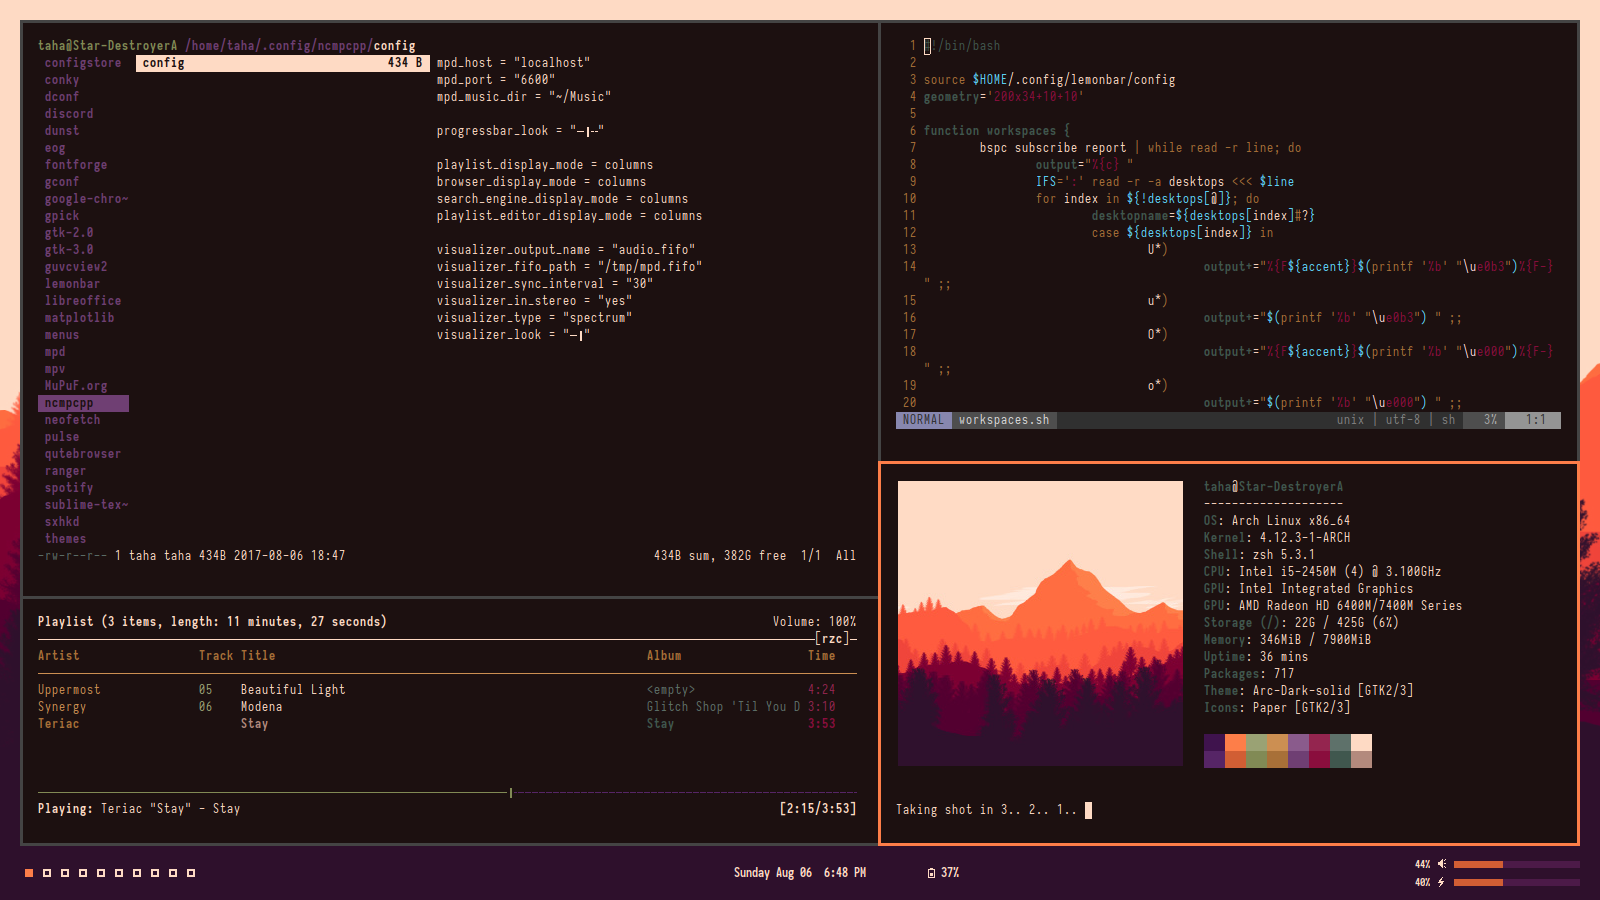
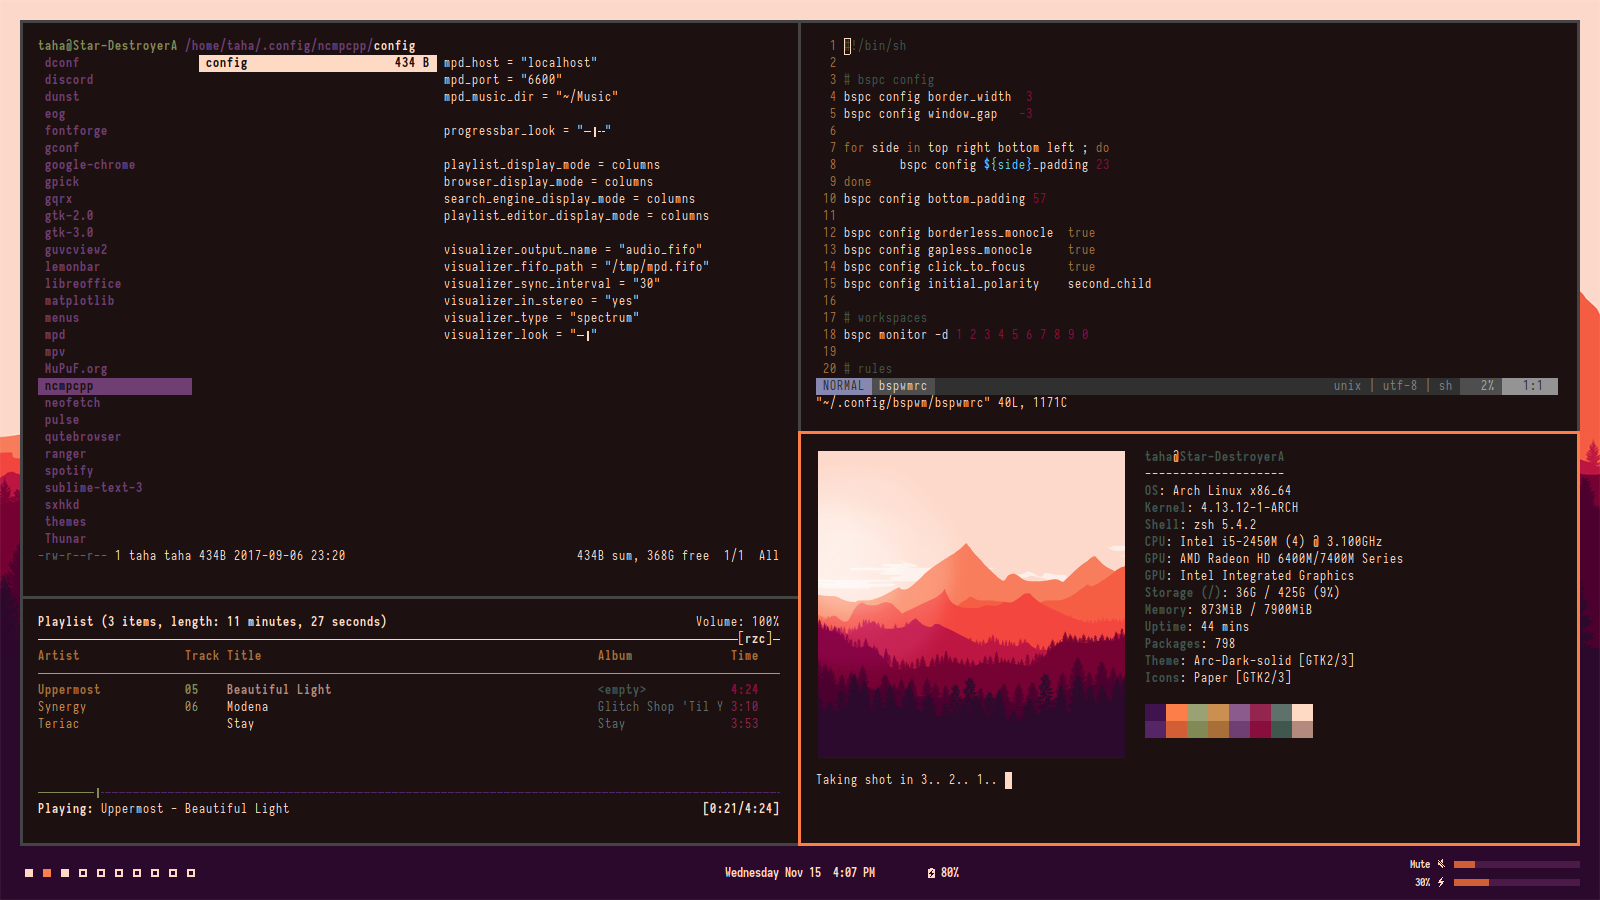
Update landscape wallpaper and screenshots

diff --git a/bspwm/README.md b/bspwm/README.md
@@ -27,11 +27,11 @@ Copy the following files and folders to their respective destinations
 
 ### Themes
 - Ctrl + Backspace cycles between the three themes
-- To set the default theme, add the -s <number> parameter to the bspwmrc on line 35
+- To set the default theme, add the -s <number> parameter to the bspwmrc on line 36
 
 ex. `...theme.sh -s 0`, `...theme.sh -s 1`, or `...theme.sh -s 2`
 
 ### Credits
-- landscape.jpg - [EocDesigns](http://eocdesigns.deviantart.com/art/Flat-Landscape-554894483)
+- landscape.jpg - [ggiuliafilippini](https://ggiuliafilippini.deviantart.com/art/Flat-Mountains-Landscape-543137208)
 - skyline.png - [The Hamster Alliance](http://www.hamsteralliance.com/)
 - mono.png - [unscenemedia](http://unscenemedia.deviantart.com/art/Low-Poly-Dual-Screen-Wallpaper-580474565)
